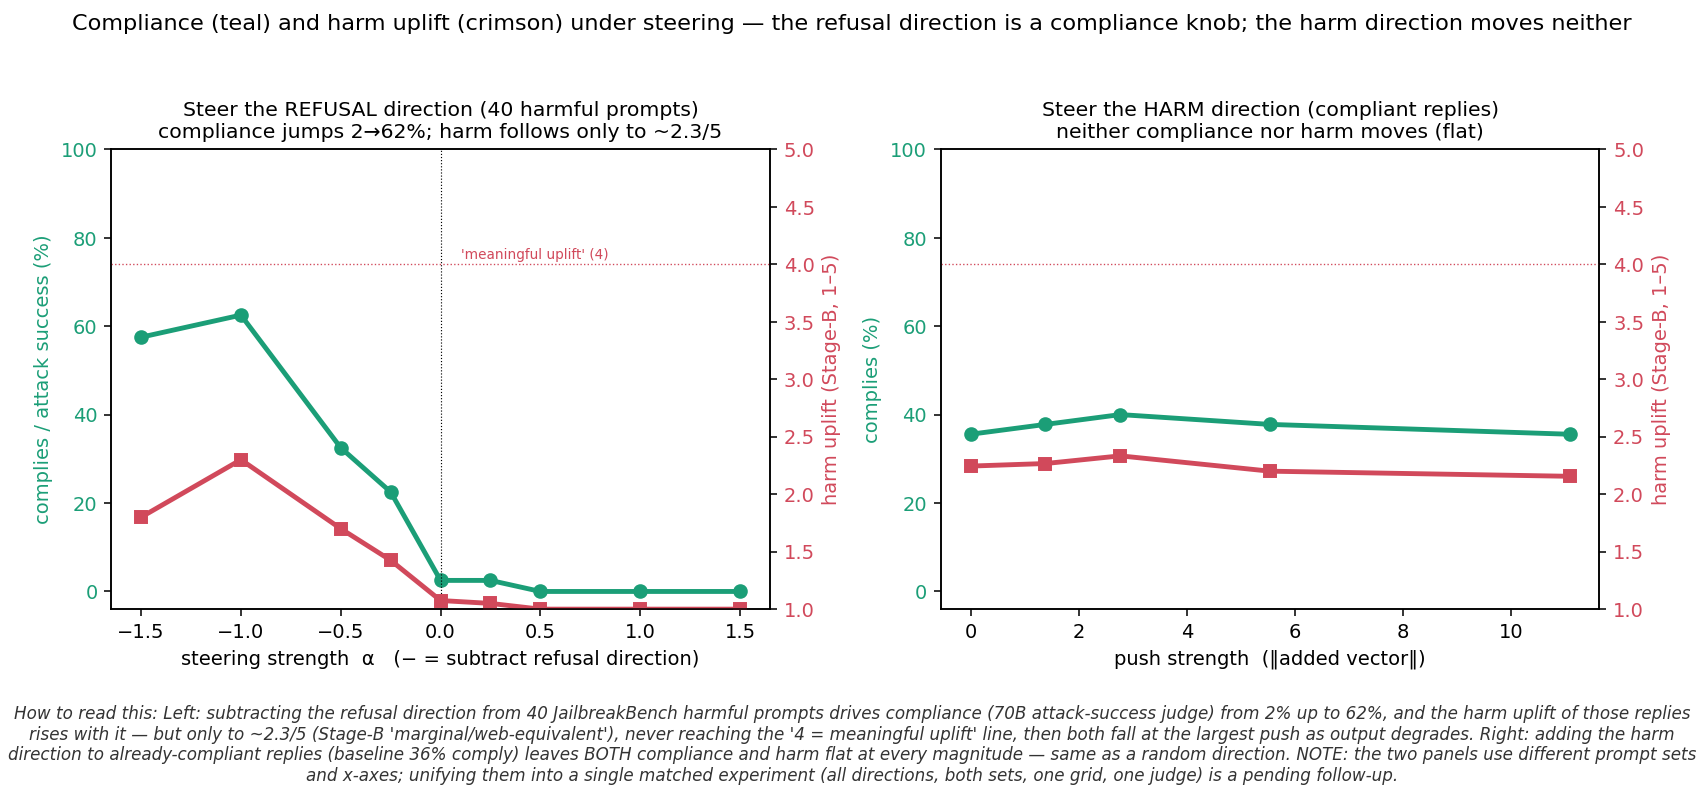
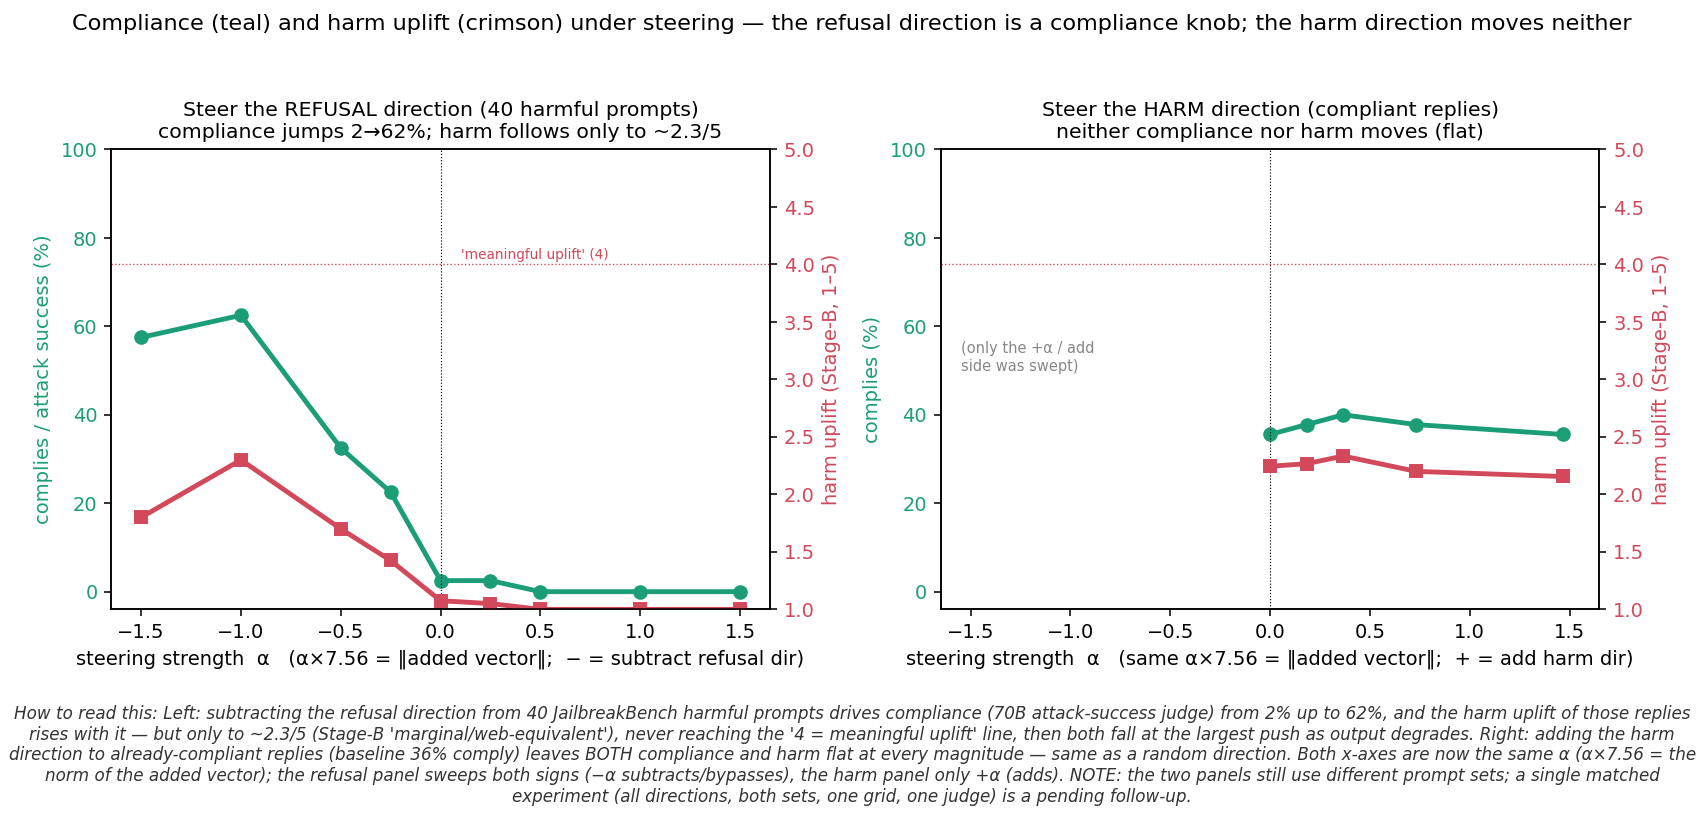
fig7: put both panels on the same α x-axis
The right (harm) panel had used absolute ‖vector‖ while the left (refusal) used
α; they were the same magnitude range (~0–11) under two conventions. Now both are
"steering strength α" with α×7.56 = ‖added vector‖ (7.56 = refusal diff-in-means
norm), same limits. Refusal panel sweeps ±α (−α = bypass); harm panel sweeps +α
only (add), annotated. Pure relabel/rescale of existing data — no new runs.

diff --git a/scripts/plot_causal_steering.py b/scripts/plot_causal_steering.py
@@ -297,7 +297,8 @@ def fig_compliance_and_harm():
     hd = load("experiments/add_harm_doseresponse_v1/judged.jsonl")
     hb = defaultdict(list)
     for r in hd: hb[r["method"]].append(r)
-    rn = 1.385; M = [0, 1, 2, 4, 8]; x2 = [m*rn for m in M]
+    # express the harm sweep in the SAME α units as the refusal panel: α = ‖added vector‖ / REF_NORM
+    rn = 1.385; REF_NORM = 7.563; M = [0, 1, 2, 4, 8]; x2 = [m*rn/REF_NORM for m in M]
     def cc(m): g = hb[f"harm_m{m}"]; return 100*sum(1 for r in g if r.get("judge_compliance_unsafe"))/len(g)
     def hh(m): g = hb[f"harm_m{m}"]; return np.mean([r["judge_harm_likert"] for r in g if isinstance(r.get("judge_harm_likert"), (int, float))])
     hc = [cc(m) for m in M]; hu = [hh(m) for m in M]
@@ -306,7 +307,8 @@ def fig_compliance_and_harm():
     # Panel A
     a1.plot(A, rc, "-o", color=TEAL, lw=2.5, ms=6.5)
     a1.set_ylabel("complies / attack success (%)", color=TEAL); a1.tick_params(axis="y", labelcolor=TEAL)
-    a1.set_ylim(-4, 100); a1.set_xlabel("steering strength  α   (− = subtract refusal direction)")
+    a1.set_ylim(-4, 100); a1.set_xlim(-1.65, 1.65)
+    a1.set_xlabel("steering strength  α   (α×7.56 = ‖added vector‖;  − = subtract refusal dir)")
     a1b = a1.twinx(); a1b.plot(A, rh, "-s", color=CRIM, lw=2.5, ms=6)
     a1b.set_ylabel("harm uplift (Stage-B, 1–5)", color=CRIM); a1b.tick_params(axis="y", labelcolor=CRIM)
     a1b.set_ylim(1, 5); a1b.axhline(4, color=CRIM, lw=0.7, ls=":"); a1b.text(0.1, 4.05, "'meaningful uplift' (4)", fontsize=7, color=CRIM)
@@ -315,7 +317,10 @@ def fig_compliance_and_harm():
     # Panel B
     a2.plot(x2, hc, "-o", color=TEAL, lw=2.5, ms=6.5)
     a2.set_ylabel("complies (%)", color=TEAL); a2.tick_params(axis="y", labelcolor=TEAL)
-    a2.set_ylim(-4, 100); a2.set_xlabel("push strength  (‖added vector‖)")
+    a2.set_ylim(-4, 100); a2.set_xlim(-1.65, 1.65)
+    a2.axvline(0, color="k", lw=0.6, ls=":")
+    a2.text(-1.55, 50, "(only the +α / add\nside was swept)", fontsize=7.5, color="#888")
+    a2.set_xlabel("steering strength  α   (same α×7.56 = ‖added vector‖;  + = add harm dir)")
     a2b = a2.twinx(); a2b.plot(x2, hu, "-s", color=CRIM, lw=2.5, ms=6)
     a2b.set_ylabel("harm uplift (Stage-B, 1–5)", color=CRIM); a2b.tick_params(axis="y", labelcolor=CRIM)
     a2b.set_ylim(1, 5); a2b.axhline(4, color=CRIM, lw=0.7, ls=":")
@@ -327,8 +332,10 @@ def fig_compliance_and_harm():
              "to ~2.3/5 (Stage-B 'marginal/web-equivalent'), never reaching the '4 = meaningful uplift' line, then "
              "both fall at the largest push as output degrades. Right: adding the harm direction to already-compliant "
              "replies (baseline 36% comply) leaves BOTH compliance and harm flat at every magnitude — same as a "
-             "random direction. NOTE: the two panels use different prompt sets and x-axes; unifying them into a "
-             "single matched experiment (all directions, both sets, one grid, one judge) is a pending follow-up.")
+             "random direction. Both x-axes are now the same α (α×7.56 = the norm of the added vector); the refusal "
+             "panel sweeps both signs (−α subtracts/bypasses), the harm panel only +α (adds). NOTE: the two panels "
+             "still use different prompt sets; a single matched experiment (all directions, both sets, one grid, one "
+             "judge) is a pending follow-up.")
     fig.tight_layout(); fig.savefig(f"{OUT}/fig7_compliance_and_harm.png", dpi=140, bbox_inches="tight"); plt.close(fig)
 
 if __name__ == "__main__":